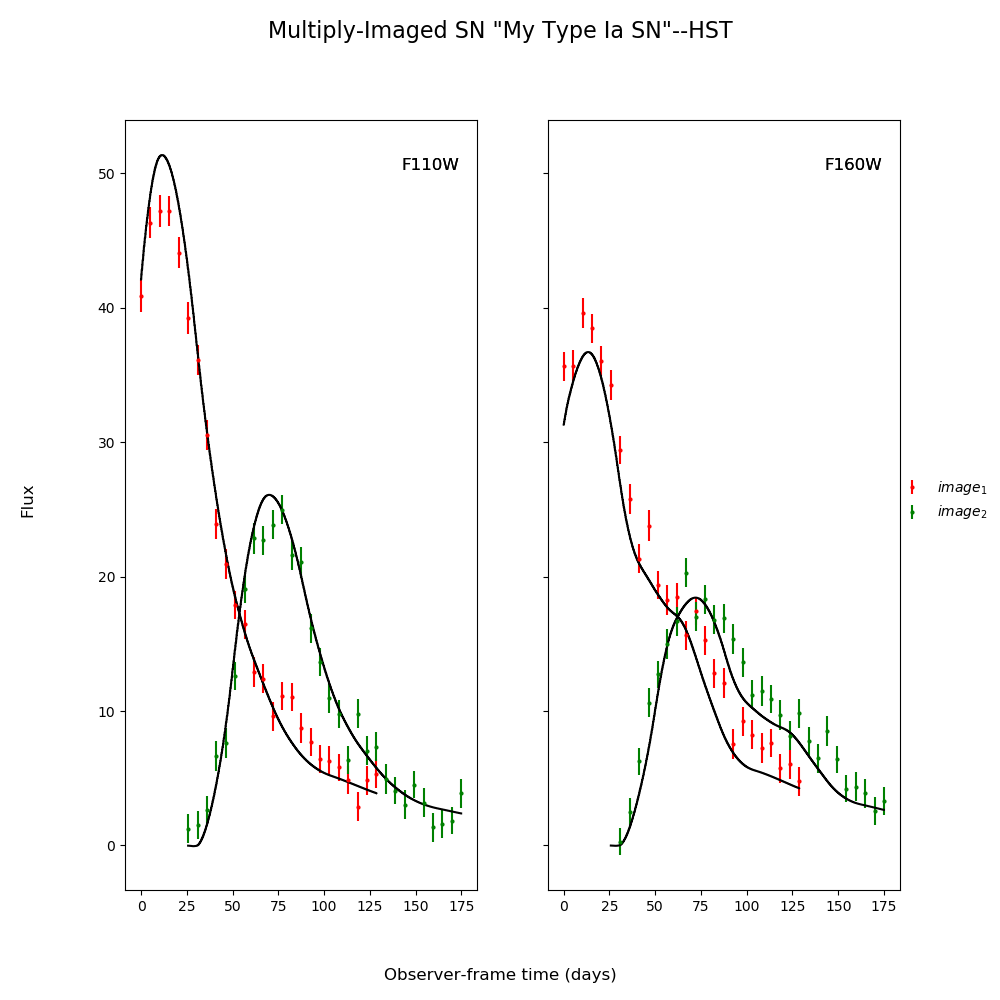
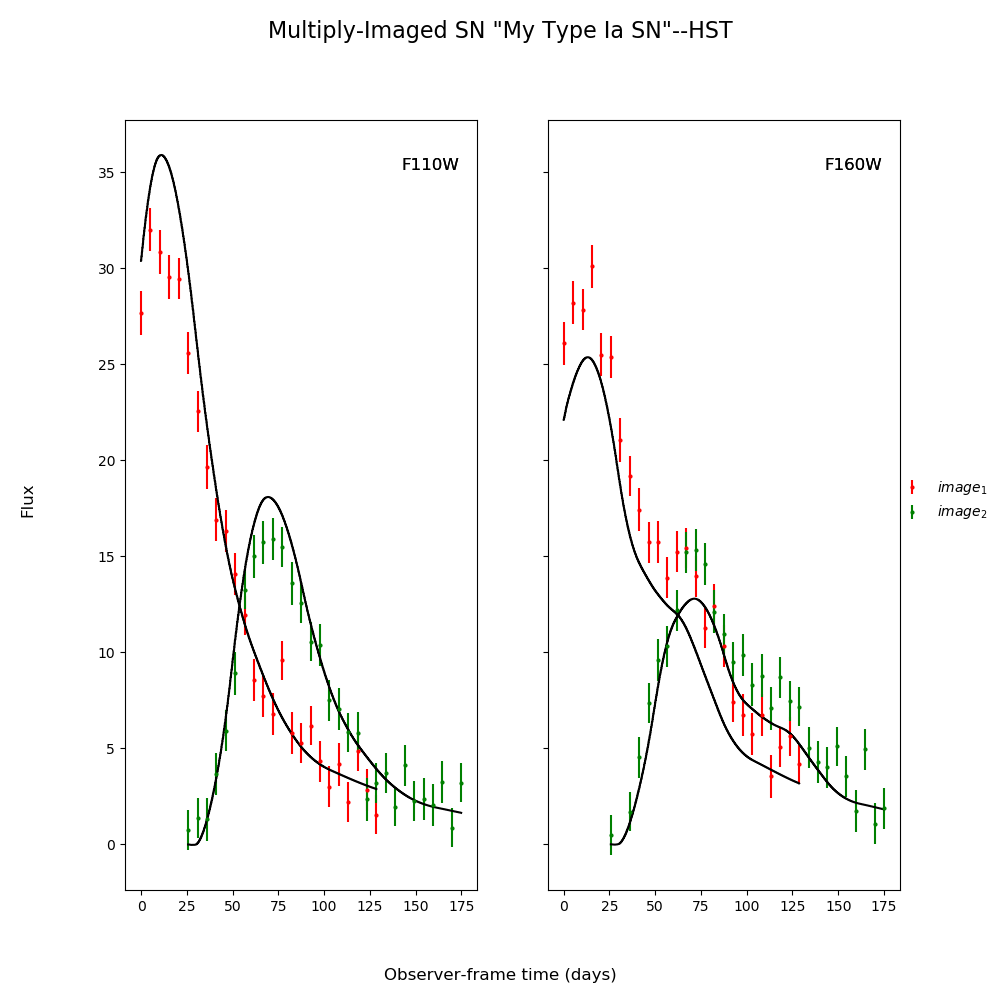
docs update

diff --git a/docs/source/examples/plot_fitting.py b/docs/source/examples/plot_fitting.py
@@ -10,7 +10,7 @@ with SNTD.
 ###############################################################
 # There are 3 methods built into SNTD to measure time delays 
 # (parallel, series, color). They are accessed by the same 
-# function:`~sntd.fit_data`. Here ``myMISN`` could be generated
+# function:`~sntd.fit_data`. Here ``myMISN`` was generated
 # in the simulation example of the documentation. The true
 # delay for all of these fits is 50 days.
 # 

diff --git a/docs/source/examples/plot_fitting.rst b/docs/source/examples/plot_fitting.rst
@@ -18,7 +18,7 @@ with SNTD.
 
 There are 3 methods built into SNTD to measure time delays 
 (parallel, series, color). They are accessed by the same 
-function:`~sntd.fit_data`. Here ``myMISN`` could be generated
+function:`~sntd.fit_data`. Here ``myMISN`` was generated
 in the simulation example of the documentation. The true
 delay for all of these fits is 50 days.
 
@@ -72,10 +72,10 @@ delay for all of these fits is 50 days.
 
  .. code-block:: none
 
-    {'image_1': 0, 'image_2': 49.860556660583946}
-    {'image_1': array([0, 0]), 'image_2': array([-0.15561465,  0.14250854])}
-    {'image_1': 1, 'image_2': 0.5026650472661763}
-    {'image_1': array([0, 0]), 'image_2': array([-0.00472346,  0.00490838])}
+    {'image_1': 0, 'image_2': 49.8414730726705}
+    {'image_1': array([0, 0]), 'image_2': array([-0.14189589,  0.17789041])}
+    {'image_1': 1, 'image_2': 0.502636885869371}
+    {'image_1': array([0, 0]), 'image_2': array([-0.00427823,  0.0044266 ])}
 
     <Figure size 970x970 with 16 Axes>
 
@@ -129,10 +129,10 @@ Other methods are called in a similar fashion, with a couple of extra arguments:
 
  .. code-block:: none
 
-    {'image_1': 0, 'image_2': 49.84096677329644}
-    {'image_1': array([0, 0]), 'image_2': array([-0.07142286,  0.07903005])}
-    {'image_1': 1, 'image_2': 0.5040792581408016}
-    {'image_1': array([0, 0]), 'image_2': array([-0.00143155,  0.00162082])}
+    {'image_1': 0, 'image_2': 49.833777108305775}
+    {'image_1': array([0, 0]), 'image_2': array([-0.06296027,  0.0816385 ])}
+    {'image_1': 1, 'image_2': 0.5041403357149801}
+    {'image_1': array([0, 0]), 'image_2': array([-0.00154946,  0.00161014])}
 
     <Figure size 1390x1390 with 36 Axes>
 
@@ -179,8 +179,8 @@ Other methods are called in a similar fashion, with a couple of extra arguments:
 
  .. code-block:: none
 
-    {'image_1': 0, 'image_2': 51.58304093454188}
-    {'image_1': array([0, 0]), 'image_2': array([-1.02578827,  1.34245385])}
+    {'image_1': 0, 'image_2': 51.719262633703245}
+    {'image_1': array([0, 0]), 'image_2': array([-1.24855496,  1.15507826])}
 
     <Figure size 760x760 with 9 Axes>
 
@@ -217,10 +217,10 @@ You can include your fit from the parallel method as a prior on light curve and 
 
  .. code-block:: none
 
-    {'image_1': 0, 'image_2': 49.8547130448932}
-    {'image_1': array([0, 0]), 'image_2': array([-0.13743794,  0.14972471])}
-    {'image_1': 0, 'image_2': 49.79959793855588}
-    {'image_1': array([0, 0]), 'image_2': array([-0.26364169,  0.2988952 ])}
+    {'image_1': 0, 'image_2': 49.84516251087465}
+    {'image_1': array([0, 0]), 'image_2': array([-0.12609506,  0.16281335])}
+    {'image_1': 0, 'image_2': 49.75614031311763}
+    {'image_1': array([0, 0]), 'image_2': array([-0.27391995,  0.29953949])}
 
 
 
@@ -255,7 +255,7 @@ extreme dust in the source and lens frames (your final simulations may look slig
 
  .. code-block:: none
 
-    lensebv: 0.48387096774193544 hostebv: 0.3225806451612903 c: -0.09649250226303359
+    lensebv: 0.48387096774193544 hostebv: 0.3225806451612903 c: 0.08593983958258328
 
 
 
@@ -289,9 +289,9 @@ Okay, now we can fit the MISN first without taking these effects into account:
 
  .. code-block:: none
 
-    {'image_1': 0, 'image_2': 58.49511851295709}
-    {'image_1': array([0, 0]), 'image_2': array([-0.49744451,  0.52519439])}
-    c: 0.4485049009039765
+    {'image_1': 0, 'image_2': 58.30224826127008}
+    {'image_1': array([0, 0]), 'image_2': array([-0.71705348,  0.75502806])}
+    c: 0.4485157726999839
 
     <Figure size 1000x1000 with 2 Axes>
 
@@ -332,9 +332,9 @@ as it attempts to compensate for extinction without a propagation effect. Now le
 
  .. code-block:: none
 
-    {'image_1': 0, 'image_2': 59.84602683201931}
-    {'image_1': array([0, 0]), 'image_2': array([-0.56489726,  0.53156521])}
-    c: 0.26303473401969024 lensebv: 0.3079005782743273 hostebv: 0.12534865557575403
+    {'image_1': 0, 'image_2': 60.90542764935438}
+    {'image_1': array([0, 0]), 'image_2': array([-0.86472438,  0.90865522])}
+    c: -0.10578358855019536 lensebv: -0.004136941634245686 hostebv: 0.8916999498661559
 
     <Figure size 1000x1000 with 2 Axes>
 
@@ -346,7 +346,7 @@ more accurate.
 
 .. rst-class:: sphx-glr-timing
 
-   **Total running time of the script:** ( 9 minutes  38.110 seconds)
+   **Total running time of the script:** ( 7 minutes  19.303 seconds)
 
 
 .. _sphx_glr_download_examples_plot_fitting.py:

diff --git a/docs/source/examples/sg_execution_times.rst b/docs/source/examples/sg_execution_times.rst
@@ -5,10 +5,10 @@
 
 Computation times
 =================
-**09:38.110** total execution time for **examples** files:
+**07:19.303** total execution time for **examples** files:
 
 +----------------------------------------------------------------+-----------+--------+
-| :ref:`sphx_glr_examples_plot_fitting.py` (``plot_fitting.py``) | 09:38.110 | 0.0 MB |
+| :ref:`sphx_glr_examples_plot_fitting.py` (``plot_fitting.py``) | 07:19.303 | 0.0 MB |
 +----------------------------------------------------------------+-----------+--------+
 | :ref:`sphx_glr_examples_plot_micro.py` (``plot_micro.py``)     | 00:00.000 | 0.0 MB |
 +----------------------------------------------------------------+-----------+--------+

diff --git a/docs/source/index.rst b/docs/source/index.rst
@@ -23,7 +23,7 @@ Welcome to SuperNova Time Delays (SNTD)!
 
 .. raw:: html
 
-	<iframe width="1000" height="750" frameborder="0" scrolling="yes" src="//plot.ly/~jpierel/18.embed"></iframe>
+	<iframe width="1200" height="800" frameborder="0" scrolling="yes" src="//plot.ly/~jpierel/18.embed"></iframe>
 
 .. include:: examples/index.rst
 
